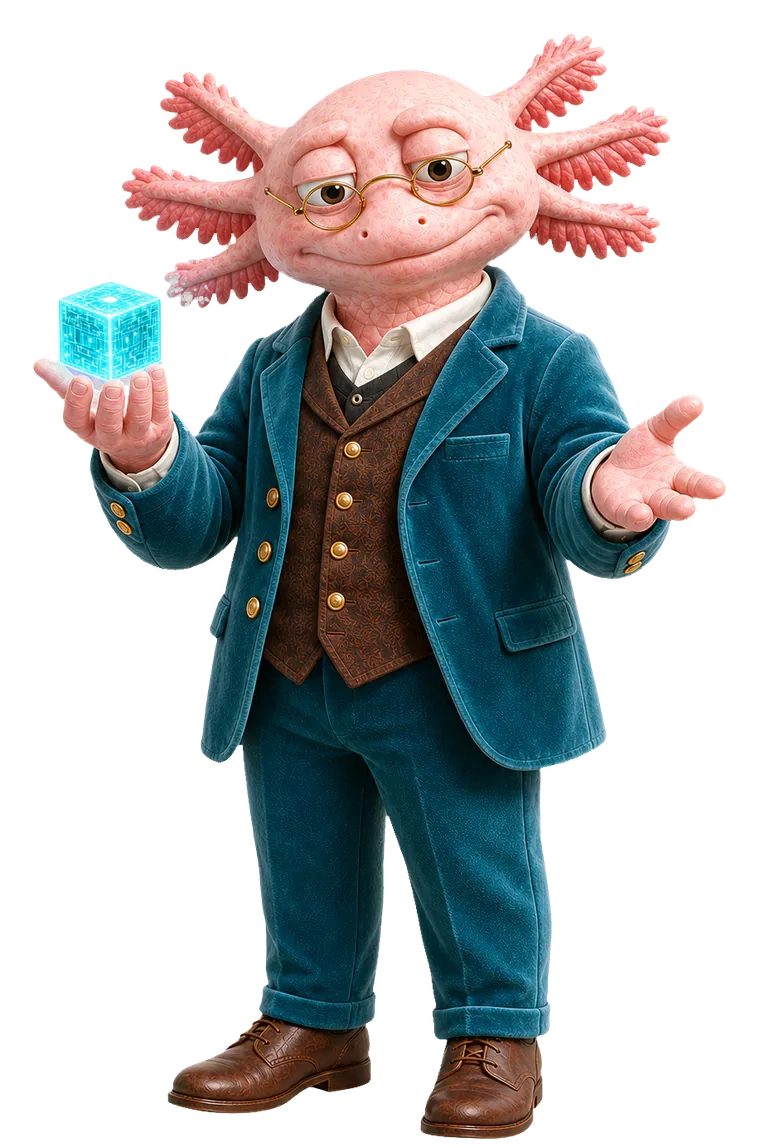
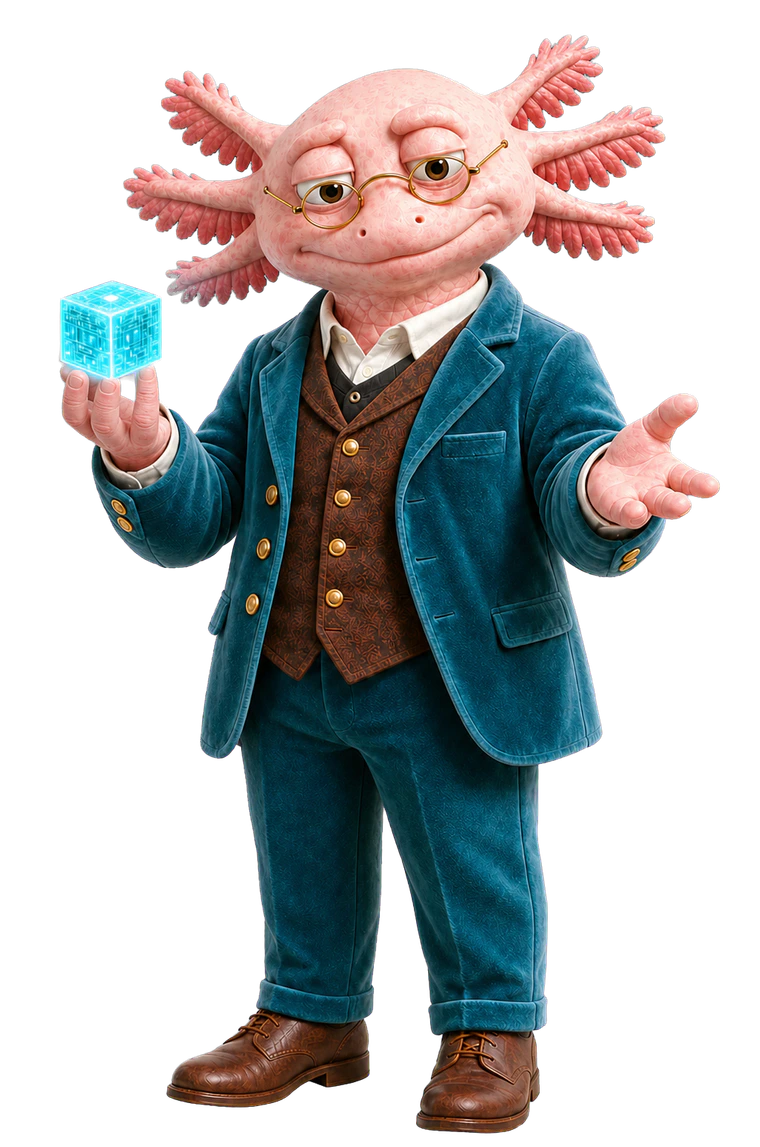
Use four-finger Aristarch artwork

diff --git a/app.js b/app.js
@@ -91,7 +91,7 @@
     stepanRegularity: './assets/stepan-sales-regularity.webp',
     stepanFinal: './assets/stepan-final-map.webp',
     aristarch: './assets/aristarch-recommendations.webp',
-    aristarchLibrary: './assets/aristarch-library-soft-glow.webp?v=20260721-aristarch-image-27',
+    aristarchLibrary: './assets/aristarch-library-soft-glow.webp?v=20260721-aristarch-four-fingers-28',
     aristarchStory: './assets/aristarch-recommendations.png',
     potap: './assets/potap-digital-system.webp',
     authors: './assets/authors-photo-labeled.jpg'

diff --git a/index.html b/index.html
@@ -34,6 +34,6 @@
       }, 220);
     </script>
     <div id="app"></div>
-  <script src="./app.js?v=20260721-aristarch-image-27"></script>
+  <script src="./app.js?v=20260721-aristarch-four-fingers-28"></script>
   </body>
 </html>

diff --git a/max-experimental.html b/max-experimental.html
@@ -37,6 +37,6 @@
       }, 220);
     </script>
     <div id="app"></div>
-    <script src="./app.js?v=20260721-aristarch-image-27"></script>
+    <script src="./app.js?v=20260721-aristarch-four-fingers-28"></script>
   </body>
 </html>

diff --git a/max/index.html b/max/index.html
@@ -39,6 +39,6 @@
       }, 220);
     </script>
     <div id="app"></div>
-    <script src="./app.js?v=20260721-aristarch-image-27"></script>
+    <script src="./app.js?v=20260721-aristarch-four-fingers-28"></script>
   </body>
 </html>